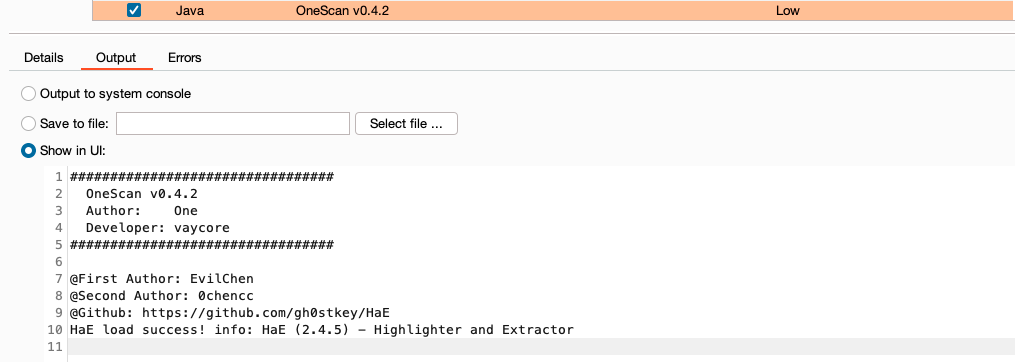
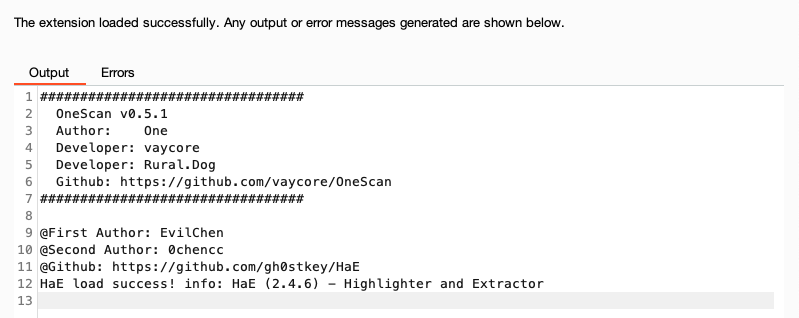
更新插件安装成功的截图；更新版本号0.5.1

Changed region(s): [[0.0, 0.1415, 1.0, 0.9906], [0.0, 0.0, 1.0, 0.1132]]

diff --git a/src/main/java/burp/vaycore/onescan/common/Constants.java b/src/main/java/burp/vaycore/onescan/common/Constants.java
@@ -9,7 +9,7 @@ public interface Constants {
 
     // 插件信息
     String PLUGIN_NAME = "OneScan";
-    String PLUGIN_VERSION = "0.5.0";
+    String PLUGIN_VERSION = "0.5.1";
     boolean DEBUG = false;
 
     // 插件启动显示的信息
